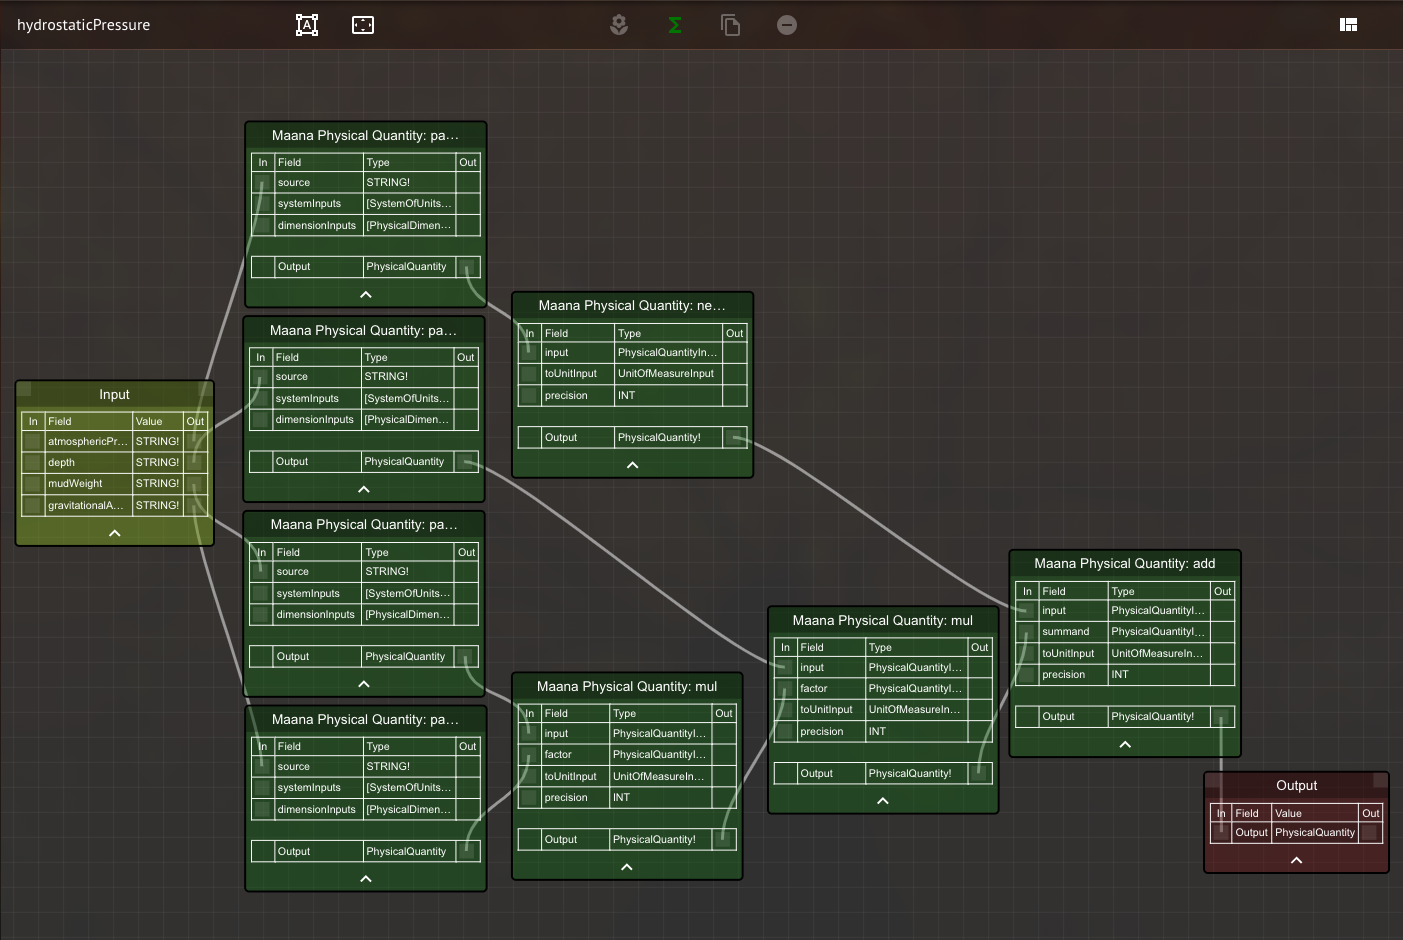
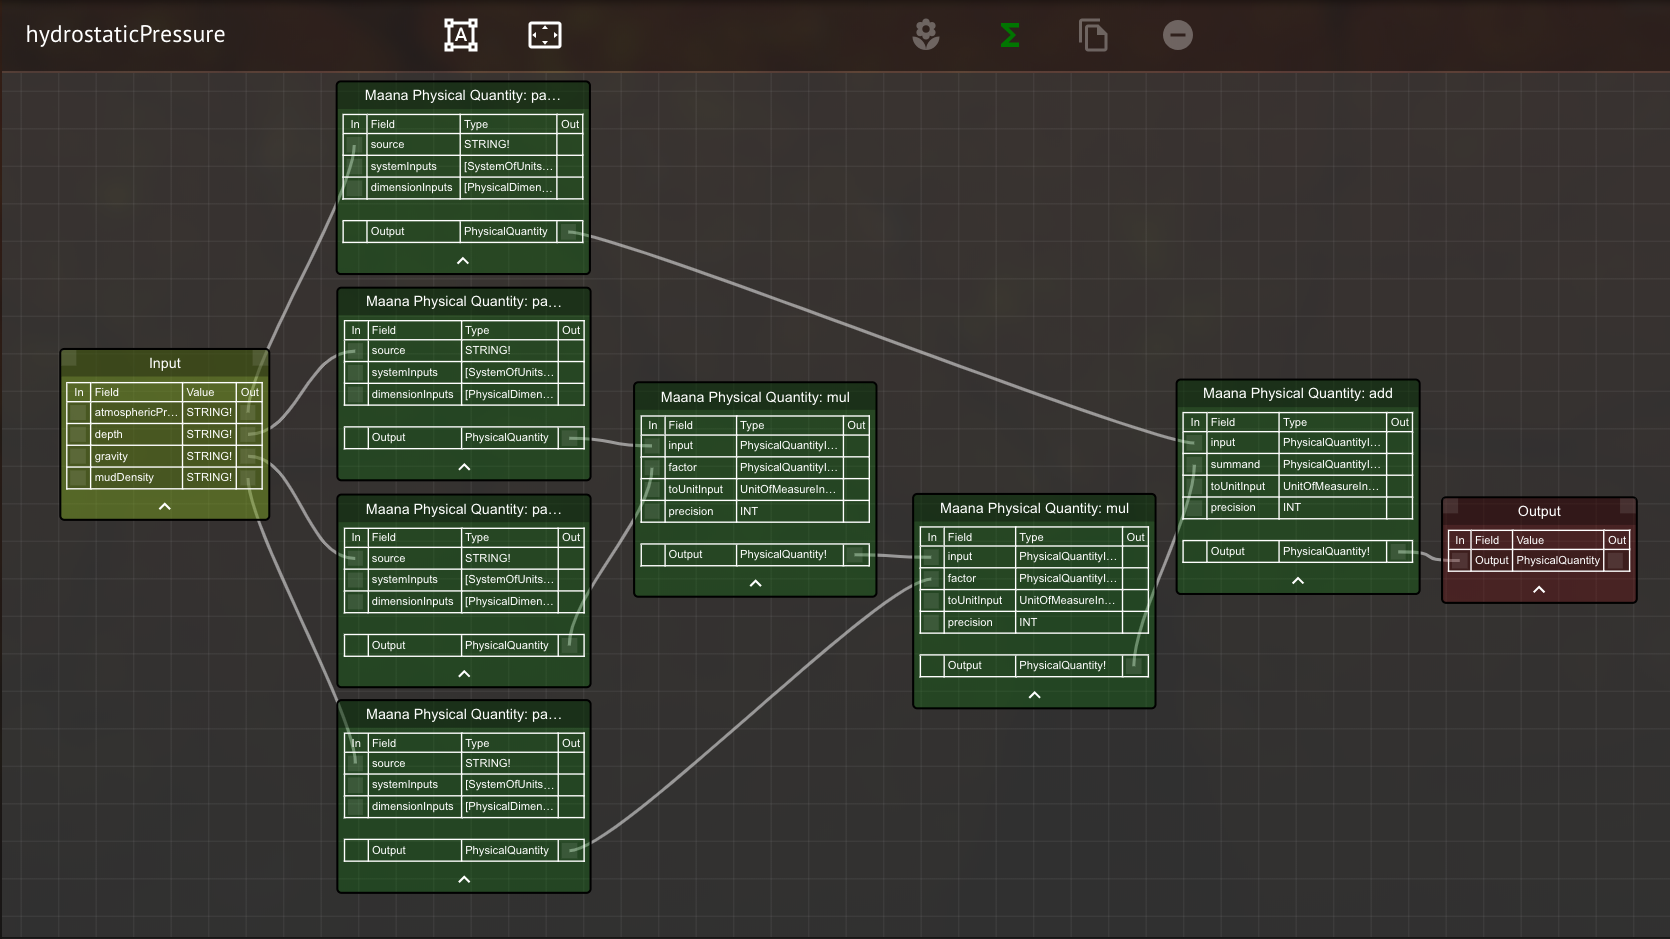
Corrected formula, images and text

Changed region(s): [[0.0, 0.0, 1.0, 0.9574], [0.9501, 0.0, 0.9808, 0.0309], [0.613, 0.4015, 0.6436, 0.4324]]

diff --git a/maana-physical-quantity/Readme.md b/maana-physical-quantity/Readme.md
@@ -7,7 +7,7 @@ The Maana Physical Quantity service provides extensive capabilities for extracti
 In this example we will create a new function that uses the physical quantity service to parse physical quantities from strings, and perform a dimensionally consistent computation with them.
 
 ### The Problem
-You would like to know the gauge pressure at the bottom of a well, and are given strings containing the atmospheric pressure, the depth of the well, the mud weight and the acceleration due to gravity.  The computation that you would like to perform is described by the following formula:
+You would like to know the absolute pressure at the bottom of a well, and are given strings containing the atmospheric pressure, the depth of the well, the mud weight and the acceleration due to gravity.  The computation that you would like to perform is described by the following formula:
 
 <p><p><img src="Formula.png" alt="Train", style="height: 100%; width: 25%; align: center"/>
 <p><p><img src="Nomenclature.png" alt="Nomenclature", style="height: 100%; width: 50%; align: center"/>
@@ -45,20 +45,20 @@ Before you can perform the arithmetic computations with the physical quantities,
 
 Note that the parse function has optional parameters that allow the user restrict which system of units and physical dimensions are used when parsing.   We will demonstrate the use of these optional parameters in a future tutorial.
 
-Next drag a copy of the "negate" and "add" functions onto the canvas.   Connect the parsed atmospheric pressure to the input of the negate function, and then connect the output of that to the input of the add function.   Finally, connect the output of the add function to the Output of the function.  NOTE: Since the "add" function will have the same unit of measure as its first argument, this ensure that the output will be in the desired unit of measure.   
+Next drag a copy of the "add" function onto the canvas.   Connect the parsed atmospheric pressure to the input of the add function.   Then, connect the output of the add function to the Output of the function.  NOTE: Since the "add" function will have the same unit of measure as its first argument, this ensure that the output will be in the desired unit of measure.   
 
 When you are done, the function graph should look like figure 4:
 
-<p><p><img src="Step-2.png" alt="Negate", style="height: 100%; width: 100%; align: center"/>
+<p><p><img src="Step-2.png" alt="Add", style="height: 100%; width: 100%; align: center"/>
 </p>
-<em>Figure 4: Negate the Atmospheric Pressure.</em>
+<em>Figure 4: Processing the Atmospheric Pressure.</em>
 </p>
 
-To complete the function, you need to multiply the depth, mudWeight and gravitationalAcceleration together, and add this to the negated atmospheric pressure.   Multiplication is performed by the physical quantity's "mul" function.   Drag two copies onto the canvas and connect them as depicted in figure 4.
+To complete the function, you need to multiply the depth, mudWeight and gravitationalAcceleration together, and add this to the atmospheric pressure.   Multiplication is performed by the physical quantity's "mul" function.   Drag two copies onto the canvas and connect them as depicted in figure 4.
 
 <p><p><img src="Step-4.png" alt="Mult", style="height: 100%; width: 100%; align: center"/>
 </p>
-<em>Figure 4: Negate the Atmospheric Pressure.</em>
+<em>Figure 4: Add the Terms Together.</em>
 </p>
 
 
